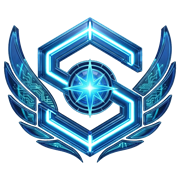
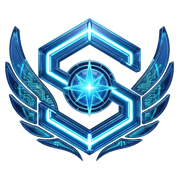
Refactor code structure for improved readability and maintainability

diff --git a/sanctuary-os/src/utils/pwaManager.tsx b/sanctuary-os/src/utils/pwaManager.tsx
@@ -207,7 +207,7 @@ export function PwaInstallPrompt() {
             <div className="relative z-10 flex items-center justify-between gap-3">
               <div className="flex items-center gap-3 min-w-0 flex-1">
                 <div className="w-10 h-10 rounded-xl glass-surface border border-[color-mix(in_srgb,var(--text)_12%,transparent)] flex items-center justify-center shrink-0">
-                  <img src="/icon.png?v=sovereign_v7" alt="" className="w-[34px] h-[34px] object-contain drop-shadow-md" />
+                  <img src="/icon.png?v=sovereign_v8" alt="" className="w-[34px] h-[34px] object-contain drop-shadow-md" />
                 </div>
                 <div className="flex flex-col min-w-0">
                   <span className="text-xs font-black uppercase tracking-wider text-[var(--text)] truncate">

diff --git a/sanctuary-os/index.html b/sanctuary-os/index.html
@@ -10,8 +10,8 @@
   <meta name="mobile-web-app-capable" content="yes" />
   <meta name="apple-mobile-web-app-status-bar-style" content="black-translucent" />
   <meta name="apple-mobile-web-app-title" content="Sanctuary OS" />
-  <link rel="icon" type="image/png" href="/pwa-192x192.png?v=sovereign_v7" />
-  <link rel="apple-touch-icon" sizes="180x180" href="/apple-touch-icon.png?v=sovereign_v7" />
+  <link rel="icon" type="image/png" href="/pwa-192x192.png?v=sovereign_v8" />
+  <link rel="apple-touch-icon" sizes="180x180" href="/apple-touch-icon.png?v=sovereign_v8" />
   <link rel="manifest" href="/manifest.webmanifest" />
   <title>Sanctuary OS</title>
   <style>

diff --git a/changelog.md b/changelog.md
@@ -54,7 +54,8 @@
   - **Proactive Zero-PII Scrubber & Domain-Salted SHA-256 Hardware ID:** Upgraded `scrubLogUserData` (`logScrubber.ts`) and `obscure_username` / `scrub_user_data_from_log` (`utils.rs`) to automatically redact Windows, macOS, Linux, SteamOS, and Proton user paths, XML tags, HWID/IP/Hostname headers, MAC addresses, IPv4/IPv6 addresses, Windows SIDs, and emails across `useStore`, `write_os_log`, and `WayfinderSupportSidePanel.tsx`. Updated `get_hardware_id()` (`system.rs`) to compute a domain-salted one-way SHA-256 digest inside Rust and guarded `hardware_bans` against fallback placeholder collisions.
   - **Zero-Trust FIDO2 Passkey Step-Up, 2-Column Factor Cards & Locked Dev Build Clearance `<SidePanel>` (`passkeyUtils.ts`, `ElevatedPasskeyGate.tsx`, `CoreTab.tsx`, `DevBuildClearanceGate.tsx`, `UpdateSidePanel.tsx`, `CommunitySupportSidePanel.tsx`, `SupporterCelebrationSidePanel.tsx`, `layout.tsx`, `misc.tsx`):** Replaced plaintext `localStorage` passkey flags with a 12-hour **Device-Bound Cryptographic Passkey Seal** (`sanctuary_passkey_seal_v2`, signed via `get_hardware_id()` on Desktop and a non-extractable `IndexedDB` `HMAC-SHA256` `CryptoKey` on Web), decoupled general account login persistence from per-session FIDO2 Passkey step-up for Elevated Hubs (`ElevatedPasskeyGate.tsx`) and `CoreTab.tsx` security actions, converted enrolled Passkeys & Authenticator Apps into a 2-column `.glass-panel` Sanctuary card grid with `VAULT_CHIP_CLASS` badges, and rebuilt `DevBuildClearanceGate.tsx` into a locked `<SidePanel>` over `WebLandingPage` with `body.sa-malware-lockdown` protection—removing the rogue horizontal `border-b` header line across `<SidePanel>` (`layout.tsx`), fixing `CommunitySupportSidePanel.tsx` so clicking **Unlock Dev Builds ($5 = +30 Days)** opens cleanly over the lockdown without prematurely closing on initial data load, adding status feedback when clicking **Re-Check Clearance**, and wiring **Download Free Stable Release** to open `<UpdateSidePanel />` (`z-[60005]`, `sa-malware-lockdown-panel`) directly over the lockdown and auto-start the in-app downloader and silent installer instead of opening GitHub inside `SidePanelBrowser`.
   - **Tauri Command Boundary Armor & Master Schema JSON Synchronization:** Hardened `is_safe_user_file_path` and `is_safe_single_filename` (`utils.rs`) across all file/backup/blueprint/quarantine Tauri commands to block system roots, top-level user folders, and workspace roots from traversal or directory deletion, and synchronized `src/data/schemas/sims4.json` and `stardew.json` with `gameArchitecturePresets.ts` (`steam_app_id`, Linux/Proton & SteamOS SD card paths, macOS `.app` bundles, `script_extensions`, `.7z`, `exception_rules`, and all 16 `mod_categories`).
-- **macOS (`universal-apple-darwin`) & SteamOS / Linux `.AppImage` Cross-Platform Build, Launch & Proton Auto-Detection Fixes (`Cargo.toml`, `tauri.conf.json`, `main.rs`, `deployment.rs`, `webauthn.rs`, `system.rs`, `game_logic.rs`, `state_ops.rs`, `SettingsTab.tsx`, `CoreTab.tsx`, `App.css`, `dev-build.yml`, `release.yml`):**
+- **macOS (`universal-apple-darwin`), SteamOS / Linux `.AppImage` Cross-Platform Build, `SanctuaryOS.exe` Binary Naming & Mobile PWA Adaptive/Maskable Icons (`Cargo.toml`, `tauri.conf.json`, `main.rs`, `deployment.rs`, `webauthn.rs`, `system.rs`, `game_logic.rs`, `state_ops.rs`, `SettingsTab.tsx`, `CoreTab.tsx`, `App.css`, `dev-build.yml`, `release.yml`, `manifest.webmanifest`, `index.html`, `pwaManager.tsx`, `public/icon.png`, `public/pwa-*.png`, `src-tauri/icons/**`):**
+  - **`SanctuaryOS.exe` Native Binary & Sovereign Co-Pilot Crest + PWA Adaptive/Maskable Icons (`?v=sovereign_v8`):** Configured `"mainBinaryName": "SanctuaryOS"` in `src-tauri/tauri.conf.json` and `default-run = "SanctuaryOS"` / `[[bin]] name = "SanctuaryOS"` in `src-tauri/Cargo.toml` so the compiled desktop executable is named **`SanctuaryOS.exe`** instead of `sanctuary-os.exe`. Deployed the transparent Sovereign Co-Pilot Crest (`public/icon.png`, `src-tauri/icons/**`, NSIS/WiX installer bitmaps) and added dedicated `"purpose": "maskable"` (`pwa-maskable-192x192.png`, `pwa-maskable-512x512.png`) and `"purpose": "monochrome"` (`pwa-monochrome-192x192.png`, `pwa-monochrome-512x512.png`) adaptive icon sets in `public/manifest.webmanifest` (`?v=sovereign_v8`) so Android/Pixel launchers render the crest at full `75%` icon-box scale (without Android's legacy `"any"` shrink-cage) across both standard and Material You Themed Icon modes.
   - **macOS `WebviewWindowBuilder::transparent` & Compiler Warning Fixes:** Added `"macos-private-api"` in `src-tauri/Cargo.toml` and `"macOSPrivateApi": true` in `src-tauri/tauri.conf.json` so `.transparent(true)` compiles cleanly on `aarch64-apple-darwin` / `x86_64-apple-darwin`, and scoped Windows-only helpers in `webauthn.rs`, `system.rs`, and `deployment.rs` to eliminate all cross-platform Rust warnings.
   - **SteamOS / Linux `.AppImage` EGL Launch Fix, Proton Path Auto-Detection & `1280×800` Handheld Scaling:** Set `WEBKIT_DISABLE_DMABUF_RENDERER=1`, `NO_AT_BRIDGE=1`, and `GDK_BACKEND=x11` (XWayland) with host `/usr/lib/libstdc++.so.6` and `/usr/lib/libwayland-client.so.0` preloading when running inside a Linux `.AppImage` (`main.rs`, `dev-build.yml`, `release.yml`) to prevent `EGL_BAD_PARAMETER` startup aborts on SteamOS; updated `resolve_steam_app_and_proton_prefix` (`game_logic.rs`), `auto_detect_paths` (`state_ops.rs`), `SettingsTab.tsx`, and `CoreTab.tsx` to scan Steam/Non-Steam Proton `compatdata` prefixes and atomically persist all 3 workspace paths; and added Linux-only (`html[data-sa-platform="linux"]`) responsive scaling for `1280×800` handheld screens.
 - **`v0.6.0-Dev.2` Documentation, Tri-Platform Legal Covenants, 38-Table SQL Schemas, Dev Release Notes & Keepers Core Non-Destructive `.md` Sync (`Citizen Guide.md`, `README.md`, `Master Architecture & Feature Document.md`, `Master Protocol List.md`, `Sanctuary OS Forking & Architecture Guide.md`, `Phase Roadmap.md`, `EULA.md`, `Terms of Service.md`, `Privacy Policy.md`, `Compliance Protocol.md`, `Partners Agreement.md`, `schema.sql`, `schema_os.sql`, `Release Notes (Dev).md`, `directivesBuilderSchema.ts`, `directivesSync.ts`, `KeepersWebDirectivesEditor.tsx`, `UnifiedPostEditor.tsx`, `ReleaseNotesShowcase.tsx`):** Updated all core directives, legal covenants (`V6.0`), and visual directive cards (`_schemaVersion: 83`) to reflect native **Windows, macOS, and Linux / SteamOS (Steam Deck Proton `compatdata` & SD card mounts)** parity, the **38-table `schema.sql`** (`citizen_staging_queue`), Zero-Byte Hardlink Mod Version History & Suite Family Rollback, Multi-Rig Blueprint Queue & AES-256-GCM Mobile Companion Radar, 12-Hour Device-Bound FIDO2 Passkey Seal, Domain-Salted SHA-256 `hardware_bans`, Cross-Platform Zero-PII Scrubber, Strict Tier 0 Architect Console Isolation, and rewrote `Release Notes (Dev).md` for `Pulse of the Foundry Version 0.6.0-Dev.2`. Fixed Legal Covenants (`Privacy Policy`, `EULA`, `Terms of Service`, `Partners Agreement`, `Compliance Protocol`) opening blank in `KeepersWebDirectivesEditor.tsx` by normalizing `message`/`content` and `created_at`/`updated_at` in `syncLegalAndCovenantsBidirectional` (`directivesSync.ts`), syncing TipTap `content` updates in `UnifiedPostBodyEditor` (`UnifiedPostEditor.tsx`), parsing live `Document Version` / `Effective Date` metadata in `LegalDocVersionInfoBlock` (`ReleaseNotesShowcase.tsx`), and guarding `KeepersWebDirectivesEditor.tsx` (`isVisualBuilderModified`) and `ReleaseNotesShowcase.tsx` (`deserializeChangelogRow`) so publishing directives, release notes, or changelogs never strips or overwrites rich `.md` files.
